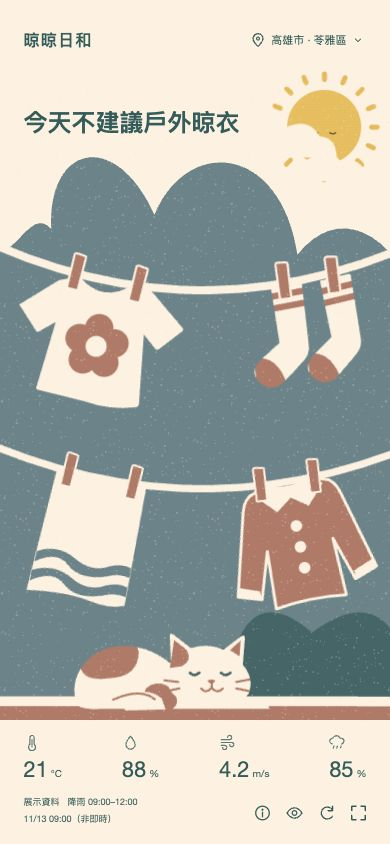
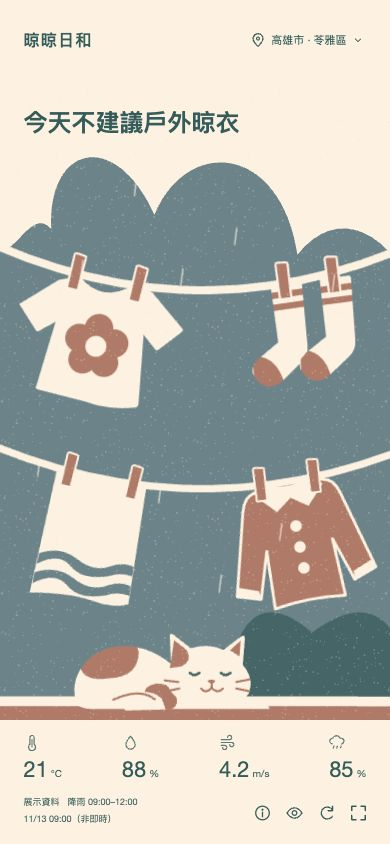
feat(laundry-weather): prototype from sol-6.1-high

diff --git a/prototype/laundry-weather/docs/verification.md b/prototype/laundry-weather/docs/verification.md
@@ -2,6 +2,19 @@
 
 日期：2026-11-13。執行環境 Node 24.12.0、macOS、Codex 內嵌瀏覽器。
 
+## Concept art 改版驗證
+
+目前專案位於 `tools/prototype/laundry-weather`，保留使用者移動後的位置。
+
+- 完整檢視 `docs/concept-art` 的四張參考圖，改以青綠／朱橘／奶油色重畫，加入花朵 T-shirt、拼色襪、波浪毛巾、翻領外套與熟睡花貓。
+- 實際檢查約 890×770、390×844、320×740、768×1024 構圖。衣物與貓等比縮放、桌面與直式背景分開繪製，避免拉伸。
+- `src/composition.js` 以同一條曲線計算衣物位置與傾角；ResizeObserver 在清理時斷開。
+- 原有 17 項測試通過，其中動畫生命週期測試增加了 ResizeObserver 註冊／斷開檢查。15 個 JavaScript 語法與兩個 SVG XML 檢查通過。
+- 實際雨景檢查曾找出太陽遮蔽與雨線規則遺失，已修正 CSS 並重新檢查。
+- 這次仍使用明確標示的展示資料，官方 API 的驗證界線不變。
+
+新版截圖：[桌面](screenshots/concept-desktop.jpg)、[手機](screenshots/concept-mobile.jpg)、[雨天](screenshots/concept-rainy.jpg)。下方為前兩版歷史紀錄。
+
 ## 2026-11-13 介面與插畫重畫驗證
 
 重新閱讀 `docs/prompt.md` 後完成第二版：移除所有可見眉標、英文副標、詩句與成功寒暄；操作及天氣類別改為 SVG，展示切換收進資料說明。太陽保留原始造型，其餘衣物、雲與鳥重畫，移除建築、盆栽、洗衣籃與欄杆細節。

diff --git a/prototype/laundry-weather/README.md b/prototype/laundry-weather/README.md
@@ -7,7 +7,7 @@
 需要 **Node.js 22 或以上**（開發與測試使用 24.12.0）。
 
 ```sh
-cd /Users/yoyohuang/dev/yuuyuutube/tools/laundry-weather
+cd /Users/yoyohuang/dev/yuuyuutube/tools/prototype/laundry-weather
 npm start
 ```
 
